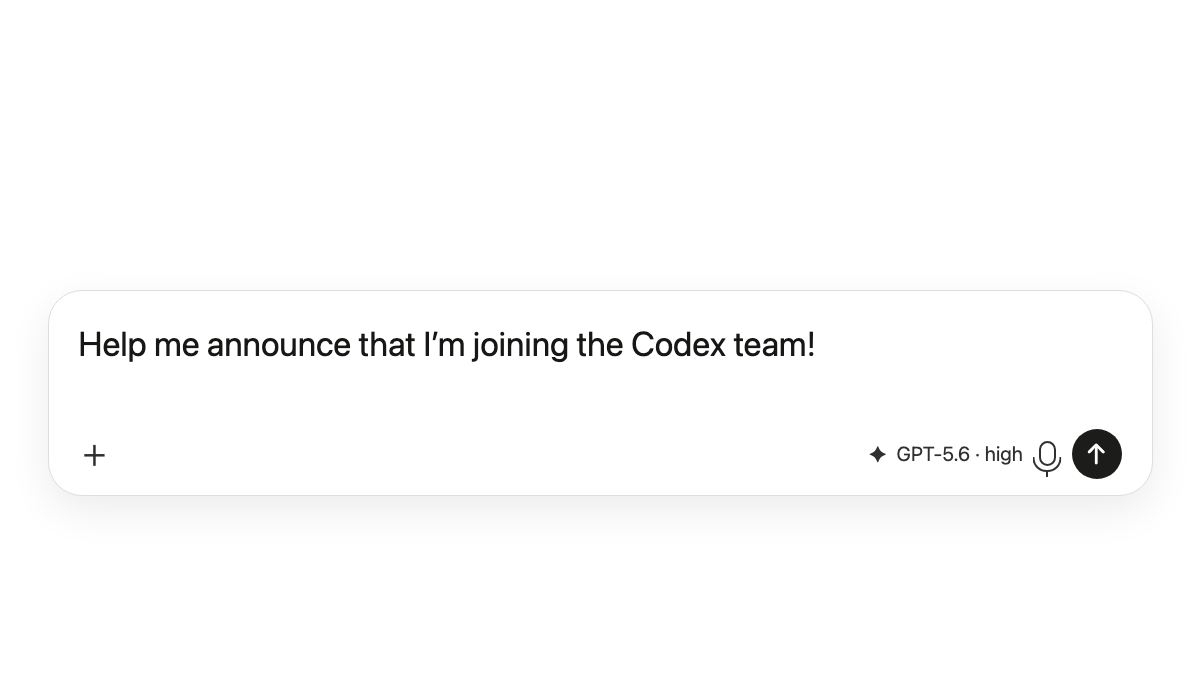
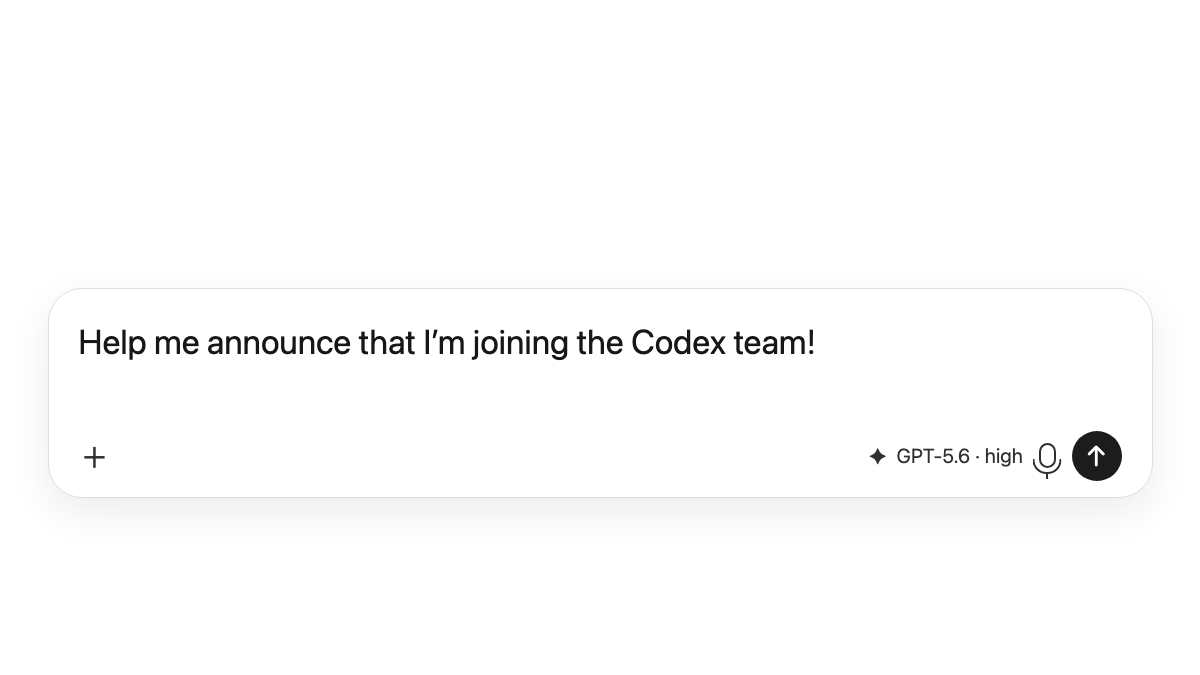
fix: align Codex preview with reviewed contract

Changed region(s): [[0.0617, 0.4667, 0.6783, 0.5289], [0.7092, 0.6222, 0.925, 0.7156], [0.0617, 0.6533, 0.0925, 0.6844]]

diff --git a/tests/codex-input-preview.test.ts b/tests/codex-input-preview.test.ts
@@ -5,9 +5,8 @@ import { join } from "node:path";
 
 const rendererModulePath =
   "../examples/workflows/codex-input-preview/skills/codex-input-preview/scripts/render-preview.mjs";
-const { buildHtml, browserCandidates, parseArgs, readPngDimensions, renderPreview } = await import(
-  rendererModulePath
-);
+const { buildHtml, browserCandidates, findBrowser, parseArgs, readPngDimensions, renderPreview } =
+  await import(rendererModulePath);
 
 function pngHeader(width: number, height: number): Buffer {
   const buffer = Buffer.alloc(24);
@@ -97,6 +96,9 @@ describe("codex input preview renderer", () => {
     expect(browserCandidates({ platform: "linux", env: { PATH: "/usr/bin:/bin" } })).toContain(
       "/usr/bin/chromium",
     );
+    expect(() =>
+      findBrowser({ platform: "linux", env: { PATH: "" }, exists: () => false }),
+    ).toThrow("No supported browser found");
   });
 
   test("builds escaped fixed-size HTML with a fit marker", () => {
@@ -108,6 +110,7 @@ describe("codex input preview renderer", () => {
 
     expect(html).toContain("width:1200px");
     expect(html).toContain("height:675px");
+    expect(html).toContain(".prompt{height:116px");
     expect(html).toContain("&lt;script&gt;");
     expect(html).toContain("GPT &amp; Codex");
     expect(html).toContain('dataset.previewStatus = fits ? "ok" : "overflow"');
@@ -124,6 +127,7 @@ describe("codex input preview renderer", () => {
   test("renders a verified png and removes temporary artifacts", async () => {
     const root = await mkdtemp(join(tmpdir(), "codex-preview-test-"));
     const output = join(root, "preview.png");
+    await writeFile(output, "existing preview");
     try {
       const result = await renderPreview(
         { prompt: "Ship it", model: "GPT-5.6", effort: "high", output },
@@ -205,6 +209,30 @@ describe("codex input preview renderer", () => {
         ),
       ).rejects.toThrow("Expected a 1200 x 675 PNG, received 800 x 600");
       expect(await readdir(root)).toEqual([]);
+    } finally {
+      await rm(root, { recursive: true, force: true });
+    }
+  });
+
+  test("reports the browser exit status without dumping unrelated logs", async () => {
+    const root = await mkdtemp(join(tmpdir(), "codex-preview-test-"));
+    const output = join(root, "preview.png");
+    try {
+      const render = renderPreview(
+        { prompt: "Ship it", model: "GPT-5.6", effort: "high", output },
+        {
+          browserPath: "/fake/chrome",
+          tempRoot: root,
+          runBrowser: async () => ({
+            status: 23,
+            stdout: "",
+            stderr: "unrelated browser diagnostic noise",
+          }),
+        },
+      );
+
+      await expect(render).rejects.toThrow("Browser failed to measure the prompt (exit 23)");
+      await expect(render).rejects.not.toThrow("unrelated browser diagnostic noise");
     } finally {
       await rm(root, { recursive: true, force: true });
     }

diff --git a/landing/components/copyable-command.tsx b/landing/components/copyable-command.tsx
@@ -6,9 +6,10 @@ import { useState } from "react";
 interface CopyableCommandProps {
   command: string;
   label: string;
+  copyLabel: string;
 }
 
-export function CopyableCommand({ command, label }: CopyableCommandProps) {
+export function CopyableCommand({ command, label, copyLabel }: CopyableCommandProps) {
   const [copied, setCopied] = useState(false);
 
   function handleCopy() {
@@ -21,7 +22,7 @@ export function CopyableCommand({ command, label }: CopyableCommandProps) {
     <button
       type="button"
       onClick={handleCopy}
-      aria-label={`Copy ${label}: ${command}`}
+      aria-label={`${copyLabel}: ${command}`}
       className="editorial-control w-full cursor-copy rounded-md border border-[var(--rule)] bg-[var(--paper)] p-4 text-left"
     >
       <div className="mb-3 flex flex-wrap items-center justify-between gap-3">
@@ -29,7 +30,10 @@ export function CopyableCommand({ command, label }: CopyableCommandProps) {
           <Terminal size={13} className="text-emerald-300" />
           {label}
         </div>
-        <span className="inline-flex items-center gap-1.5 rounded-md border border-[var(--rule)] px-2.5 py-1.5 text-xs font-medium text-[var(--body)] transition-colors hover:text-[var(--ink)]">
+        <span
+          aria-live="polite"
+          className="inline-flex items-center gap-1.5 rounded-md border border-[var(--rule)] px-2.5 py-1.5 text-xs font-medium text-[var(--body)] transition-colors hover:text-[var(--ink)]"
+        >
           {copied ? <Check size={13} className="text-emerald-300" /> : <Copy size={13} />}
           {copied ? "Copied" : "Copy"}
         </span>

diff --git a/tests/landing-app.test.ts b/tests/landing-app.test.ts
@@ -508,11 +508,14 @@ describe("landing app source contract", () => {
     expect(route).toContain("<CopyableCommand");
     expect(route).toContain("workflow.usageExample.invocation");
     expect(route).toContain("workflow.usageExample.caption");
+    expect(route).toContain("Example input");
 
     const genericCopyable = readLandingFile("components/copyable-command.tsx");
     expect(genericCopyable).toContain("label: string");
+    expect(genericCopyable).toContain("copyLabel: string");
     expect(genericCopyable).toContain("navigator.clipboard.writeText(command)");
-    expect(genericCopyable).toMatch(/aria-label=\{`Copy \$\{label\}:/);
+    expect(genericCopyable).toMatch(/aria-label=\{`\$\{copyLabel\}:/);
+    expect(genericCopyable).toContain('aria-live="polite"');
 
     const installCopyable = readLandingFile("components/copyable-install-command.tsx");
     expect(installCopyable).toContain("CopyableCommand");
@@ -538,7 +541,7 @@ describe("landing app source contract", () => {
     expect(terminal).toContain("copyText}`}");
     expect(terminal).toContain("cursor-copy");
 
-    expect(copyable).toMatch(/aria-label=\{`Copy \$\{label\}:/);
+    expect(copyable).toMatch(/aria-label=\{`\$\{copyLabel\}:/);
     expect(copyable).toContain("command}`}");
     expect(copyable).toContain("cursor-copy");
   });

diff --git a/landing/components/copyable-install-command.tsx b/landing/components/copyable-install-command.tsx
@@ -5,5 +5,7 @@ interface CopyableInstallCommandProps {
 }
 
 export function CopyableInstallCommand({ command }: CopyableInstallCommandProps) {
-  return <CopyableCommand command={command} label="install command" />;
+  return (
+    <CopyableCommand command={command} label="install command" copyLabel="Copy install command" />
+  );
 }

diff --git a/landing/app/workflows/[slug]/page.tsx b/landing/app/workflows/[slug]/page.tsx
@@ -97,7 +97,7 @@ export default async function WorkflowPage({ params }: WorkflowPageProps) {
           {workflow.usageExample ? (
             <section className="mt-8 rounded-md border border-[var(--rule)] bg-white p-4 sm:p-5">
               <p className="text-xs font-semibold uppercase tracking-[0.16em] text-[var(--muted)]">
-                Example output
+                Example input
               </p>
               <div className="mt-4 overflow-hidden rounded-md border border-[var(--rule)] bg-white">
                 <Image
@@ -112,6 +112,7 @@ export default async function WorkflowPage({ params }: WorkflowPageProps) {
                 <CopyableCommand
                   command={workflow.usageExample.invocation}
                   label="Codex invocation"
+                  copyLabel="Copy Codex invocation"
                 />
               </div>
               <p className="mt-3 text-xs leading-5 text-[var(--muted)]">